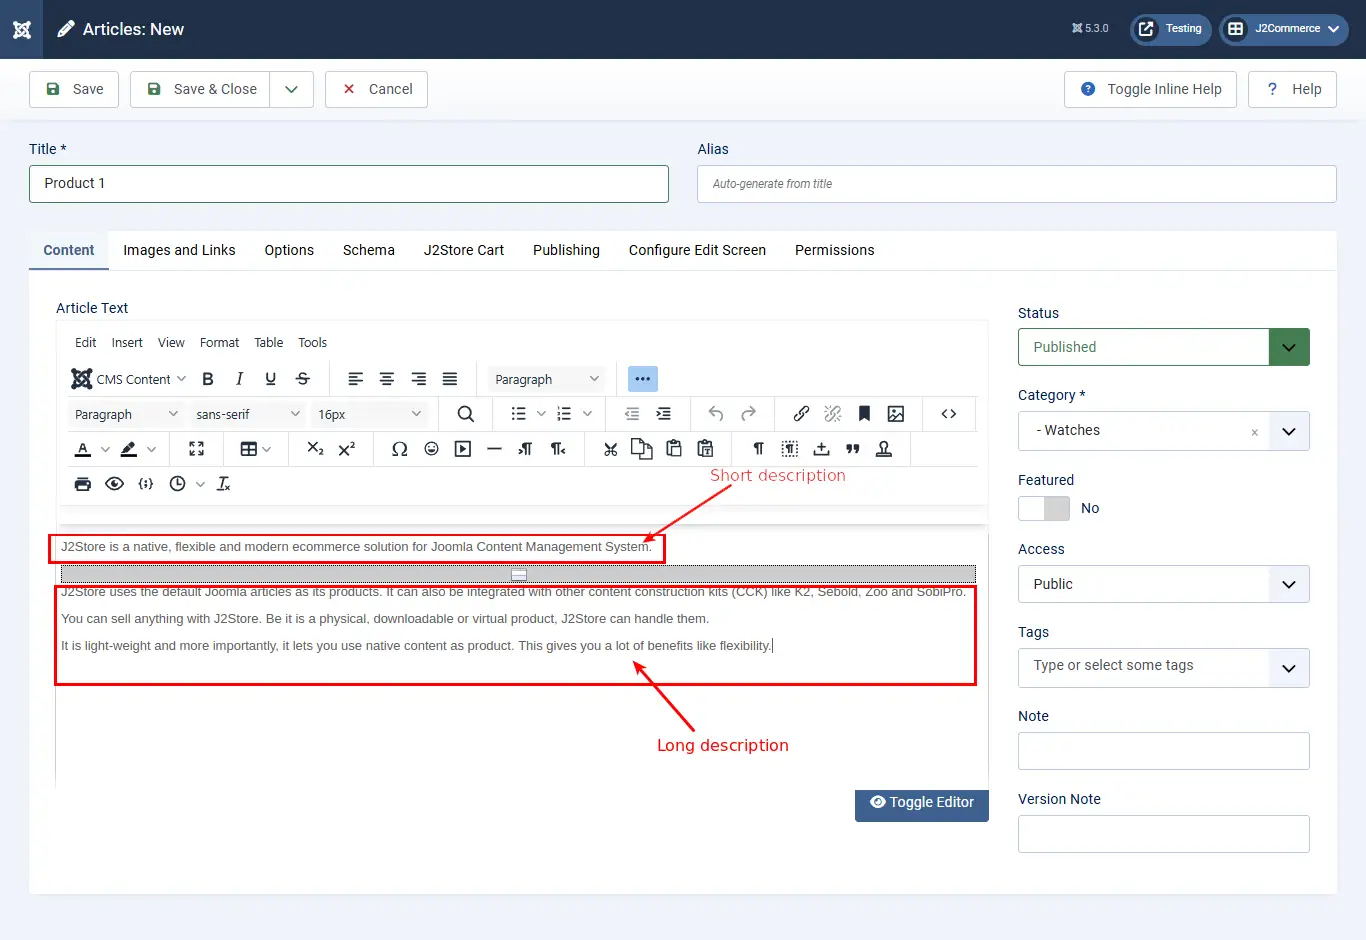
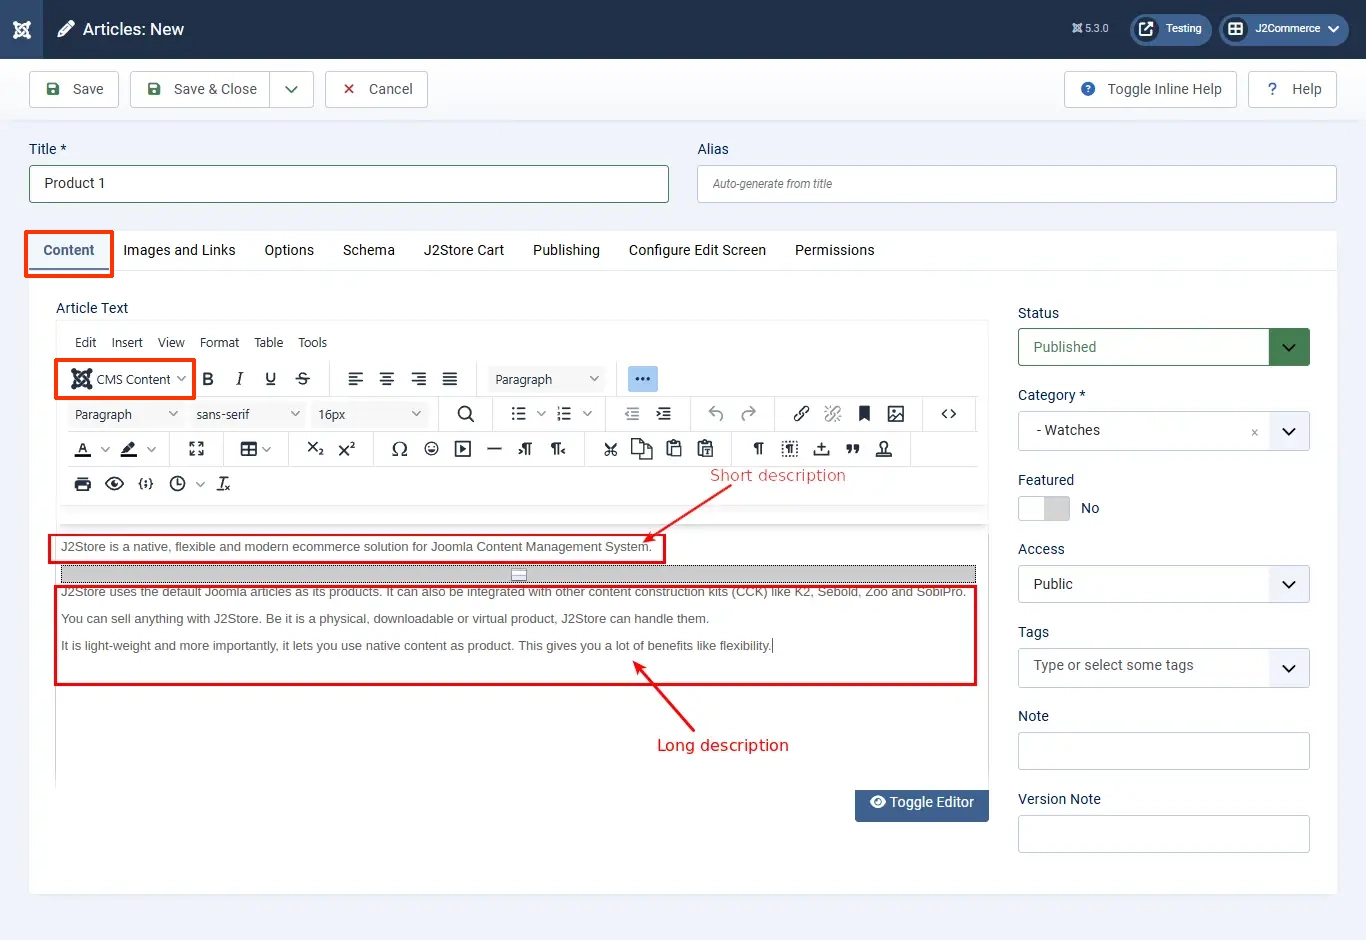
GITBOOK-33: tennille's May 13 changes

Changed region(s): [[0.0307, 0.3702, 0.1537, 0.4319], [0.0, 0.216, 0.0922, 0.3085]]

diff --git a/subscriptions-and-memberships/quickstart.md b/subscriptions-and-memberships/quickstart.md
@@ -1,6 +1,6 @@
 # Quickstart
 
-Recurring subscription is nothing but auto-renewal. J2Store’s Subscriptions and Memberships app allows you to create recurring subscription. If you create recurring subscription, the customers can auto renewal his subscription plan.
+Recurring subscription is nothing but auto-renewal. J2Commerce’s Subscriptions and Memberships app allows you to create recurring subscription. If you create recurring subscription, the customers can auto renewal his subscription plan.
 
 ## Example <a href="#example" id="example"></a>
 
@@ -13,6 +13,8 @@ The example given below, assumes you have a store and selling hosting service an
 * Select YES to Treat as product
 * Choose product type either Simple Subscription or Variable Subscription.
 
+<figure><img src="../.gitbook/assets/simple subscription.webp" alt=""><figcaption><p>Simple Subscription Product</p></figcaption></figure>
+
 ### Step-2 Setting up price based on recurring <a href="#step-2-setting-up-price-based-on-recurring" id="step-2-setting-up-price-based-on-recurring"></a>
 
 1. Now navigate to Pricing section
@@ -21,9 +23,7 @@ The example given below, assumes you have a store and selling hosting service an
 4. Set Never Expire to Subscription length.
 5. Choose your usergroups and save.
 
-![quick start](https://raw.githubusercontent.com/j2store/doc-images/master/subscriptions-and-memberships/quick-start/recurring.png)
-
-
+![quick start](../.gitbook/assets/pricing.webp)
 
 ## How to create a non-recurring (one term) subscription plan? <a href="#how-to-create-a-non-recurring-one-term-subscription-plan" id="how-to-create-a-non-recurring-one-term-subscription-plan"></a>
 
@@ -46,15 +46,11 @@ Lets see an example for single term subscription. For example, consider you are 
 4. Set 1 Year to Subscription length.
 5. Choose your usergroups and save.
 
-&#x20;
-
-![non recurring](https://raw.githubusercontent.com/j2store/doc-images/master/subscriptions-and-memberships/quick-start/non-recurring.png)
+![non recurring](../.gitbook/assets/pricing1.webp)
 
 Watch the video here:
 
 {% embed url="https://youtu.be/D7-7EOzovqM" %}
-
-
 
 ## Creating 3 months subscription plan <a href="#creating-3-months-subscription-plan" id="creating-3-months-subscription-plan"></a>
 
@@ -62,7 +58,7 @@ Refer below screen shots for setting non-recurring 3 months subscription plan
 
 Choosing duration
 
-![3 months duration](https://raw.githubusercontent.com/j2store/doc-images/master/subscriptions-and-memberships/quick-start/3-months-subs-duration.png)
+![3 months duration](../.gitbook/assets/pricing2.webp)
 
 On Frontend
 
@@ -72,19 +68,16 @@ Watch the video:
 
 {% embed url="https://youtu.be/RtcGiQg6PG8" %}
 
-
-
 ## Creating 6 months subscription plan <a href="#creating-6-months-subscription-plan" id="creating-6-months-subscription-plan"></a>
 
 Refer below screen shots for setting non-recurring 6 months subscription plan
 
 Choosing duration
 
-![6monthsduration](https://raw.githubusercontent.com/j2store/doc-images/master/subscriptions-and-memberships/quick-start/6-months-subs-duration.png)
+![6monthsduration](../.gitbook/assets/pricing3.webp)
 
 ![6monthsplan](https://raw.githubusercontent.com/j2store/doc-images/master/subscriptions-and-memberships/quick-start/6-months-subs-plan.png)
 
 watch the video here:
 
 {% embed url="https://youtu.be/5BNGktLk_6k" %}
-

diff --git a/subscriptions-and-memberships/requirements-and-installation.md b/subscriptions-and-memberships/requirements-and-installation.md
@@ -1,14 +1,38 @@
 # Requirements and Installation
 
-## Requirements <a id="requirements"></a>
+## Requirements <a href="#requirements" id="requirements"></a>
 
 1. PHP 5.4+
-2. J2Store 3.2.20 or above
+2. J2Commerce 3.2.20 or above
 3. Joomla 3.4.x or above
 
-## Installation <a id="installation"></a>
+## Download App <a href="#installation" id="installation"></a>
 
-1. Download Subscription and Memberships package from our site and install it using Joomla installer.
-2. After installing the app, go to J2Store &gt; Apps and enable Subscription Products app.
-3. Once enabled, open the app and configure the basic settings of the app.
+1. Go to J2Commerce website and make sure you are logged in.&#x20;
+2. Click on your profile dropdown in the top right corner and click on My Downloads. In the search bar type in Subscriptions or Membership.&#x20;
+3. When the app is shown, double click on it to open it.
+4. Click View Files
+5. Click Download Now
 
+<figure><img src="../.gitbook/assets/app search (1).webp" alt=""><figcaption><p>App Search</p></figcaption></figure>
+
+<figure><img src="../.gitbook/assets/app search1 (1).webp" alt=""><figcaption><p>App Search</p></figcaption></figure>
+
+<figure><img src="../.gitbook/assets/app download.webp" alt=""><figcaption><p>View App Files</p></figcaption></figure>
+
+<figure><img src="../.gitbook/assets/app download1.webp" alt=""><figcaption><p>Download App</p></figcaption></figure>
+
+## Install App <a href="#installation" id="installation"></a>
+
+1. After downloading the app, go to the backend of your site and go to System > Install > Extensions.
+2. Drag and drop your zip folder or click on Browse Your File. Don't unzip the folder
+
+<figure><img src="../.gitbook/assets/app install1.webp" alt=""><figcaption><p>Install the app</p></figcaption></figure>
+
+<figure><img src="../.gitbook/assets/install.webp" alt=""><figcaption><p>Install the app</p></figcaption></figure>
+
+1. After installing the app, go to J2Commerce > Apps and enable Subscription Products app.
+
+<figure><img src="../.gitbook/assets/app install.webp" alt=""><figcaption><p>Enabling the app</p></figcaption></figure>
+
+1. Once enabled, open the app and configure the basic settings of the app.

diff --git a/subscriptions-and-memberships/introduction-to-subscriptions-and-memberships-in-j2store.md b/subscriptions-and-memberships/introduction-to-subscriptions-and-memberships-in-j2store.md
@@ -1,8 +1,8 @@
-# Introduction to subscriptions and memberships in J2Store
+# Introduction to subscriptions and memberships in J2Commerce
 
 **Introduction**
 
-If you would like to sell subscription-based products, you could do just that with our [Subscriptions and Membership](https://www.j2store.org/product/subscriptions-and-memberships.html) app. This app allows you to sell products and services with recurring payments.
+If you would like to sell subscription-based products, you could do just that with our [Subscriptions and Membership](https://www.j2commerce.com/extensions/apps) app. This app allows you to sell products and services with recurring payments.
 
 **Important Note:** If you are using PayPal as your payment method for your subscription products, you should enable Reference Transaction on your paypal account.
 
@@ -14,7 +14,7 @@ Create any type of billing schedules. You can have memberships for days, weeks, 
 
 **2. Automatic renewals and payments**
 
-It is very convenient for the customers to have their membership auto-renewed with automatic payments \(Current supported in 3 payment gates : PayPal, Stripe, Mollie. More gateway support is coming up\)
+It is very convenient for the customers to have their membership auto-renewed with automatic payments (Current supported in 3 payment gates : PayPal, Stripe, Mollie. More gateway support is coming up)
 
 **3. Sign up Fees**
 
@@ -50,8 +50,8 @@ You could set up renewal discounts for the subscription products. If users apply
 
 **Supported Payment Gateways**
 
-1. Paypal Standard for J2Store \(Available on request\)
-2. Stripe \(Available on request\)
+1. Paypal Standard for J2Store (Available on request)
+2. Stripe (Available on request)
 3. Mollie payment plugin
 4. Authorize.net CIM
 5. BrainTree
@@ -61,4 +61,3 @@ You could set up renewal discounts for the subscription products. If users apply
 
 1. Subscription Products app does not support for guest checkout.
 2. Variable subscription product type allows you to add only one option with multiple values.
-

diff --git a/catalog/product-description.md b/catalog/product-description.md
@@ -1,10 +1,12 @@
 # Product Description
 
-By default the joomla article considers the text as short description. When you use page break or read more, you will see red or grey line in article.
+By default the Joomla article considers the text as short description. When you use page break or read more, you will see red or grey line in article.
 
 Under that whatever text has entered that considered as Long Description.
 
-![Article readmore](../.gitbook/assets/catalog_product-description_article_readmore.webp)
+If you don't see the Read More button then click on the CMS Content dropdown and then scroll to Read More.  Make sure your curser is in the location of where you want the read more section to be.
+
+![Article readmore](<../.gitbook/assets/read more.png>)
 
 ![Short long description](../.gitbook/assets/catalog_product-description_article_readmore-long.webp)
 

diff --git a/SUMMARY.md b/SUMMARY.md
@@ -47,7 +47,7 @@
   * [Adding related products](catalog/adding-related-products.md)
   * [Ordering products on your storefront](catalog/ordering-products-on-your-storefront.md)
 * [Subscriptions and Memberships](subscriptions-and-memberships/README.md)
-  * [Introduction to subscriptions and memberships in J2Store](subscriptions-and-memberships/introduction-to-subscriptions-and-memberships-in-j2store.md)
+  * [Introduction to subscriptions and memberships in J2Commerce](subscriptions-and-memberships/introduction-to-subscriptions-and-memberships-in-j2store.md)
   * [Quickstart](subscriptions-and-memberships/quickstart.md)
   * [Requirements and Installation](subscriptions-and-memberships/requirements-and-installation.md)
   * [Basic Settings](subscriptions-and-memberships/basic-settings-1.md)

diff --git a/getting-started/installation.md b/getting-started/installation.md
@@ -25,7 +25,7 @@ Remaining are for-a-fee plans which gives access to J2Commerce PRO version. You 
 
 In your Joomla control panel side menu, go to System > Install > Extension, as illustrated below.
 
-![Installation-extensionmanager](../.gitbook/assets/install.webp)
+![Installation-extensionmanager](<../.gitbook/assets/install (2).webp>)
 
 When you click here, you will be directed to the screen where you can select the downloaded/purchased packaged. See the image below:
 
